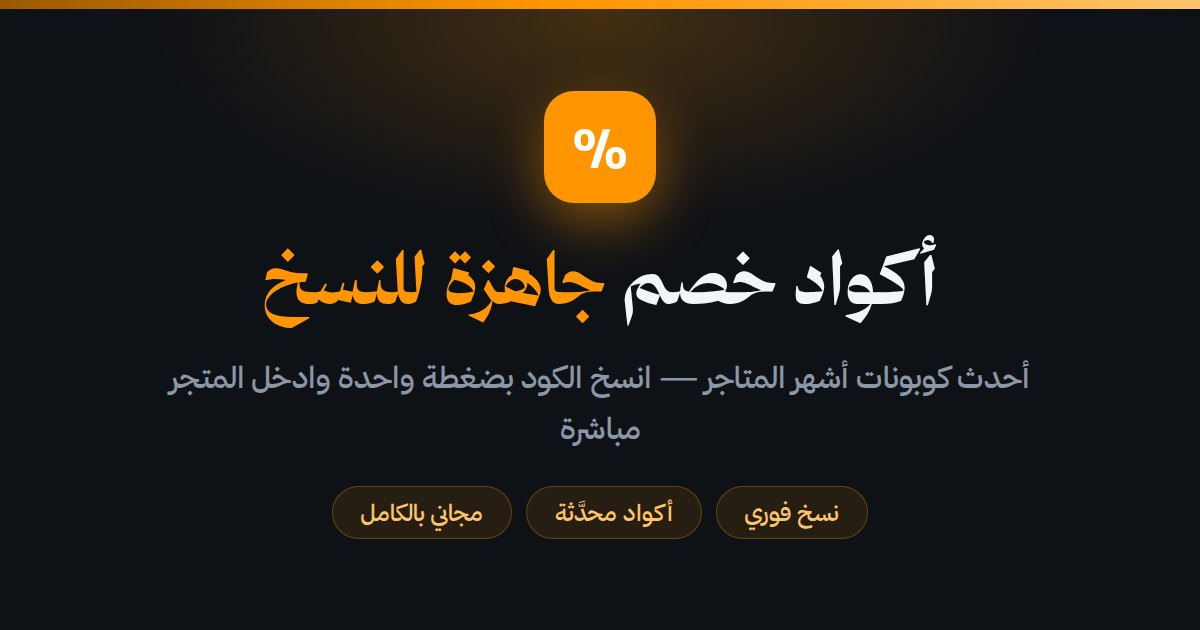
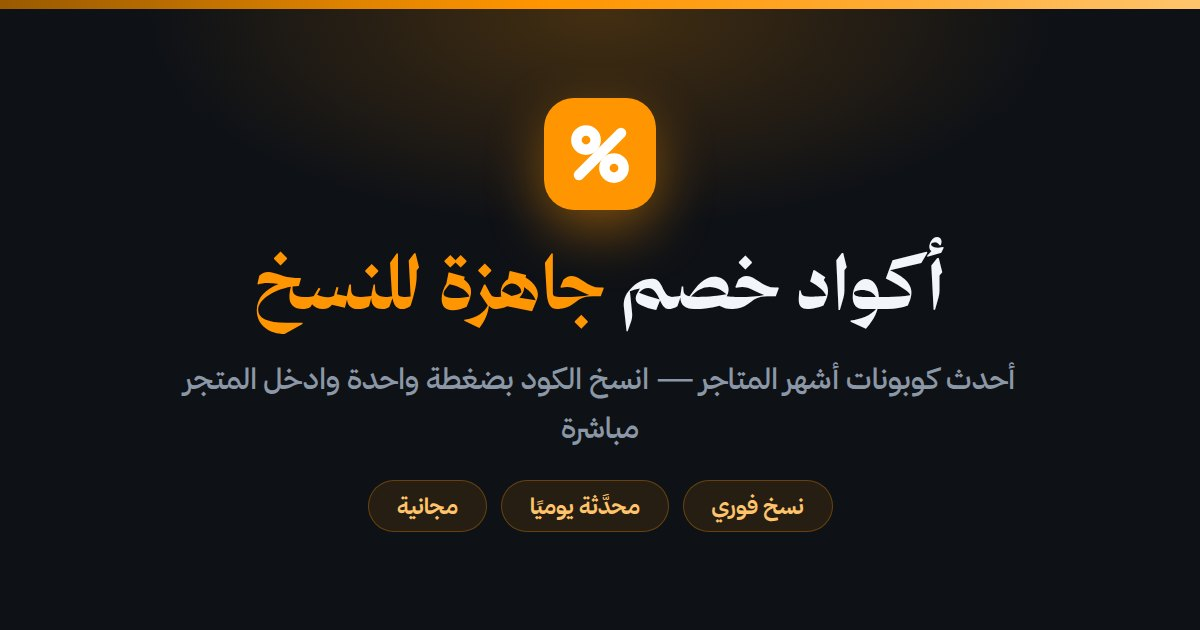
Name the site "أكواد خصم" and draw a real mark
The name and icon were placeholders I had defaulted to. The owner chose a
descriptive, exact-match name — it is what people type into Google, which
fits the site's whole strategy.

Name
- site.json carries "أكواد خصم" as name, short name and app name
- A descriptive name breaks the usual "<page> | <site>" title pattern: the
  suffix repeats words the title already opens with, and Google truncates
  the result. pageTitle() now appends the site name only when the title
  does not already contain it, so store and category pages read
  "أكواد خصم نمشي 2026 — خصم 20%" instead of repeating themselves
- The home title no longer concatenates name and tagline into a stutter

Mark
- The icon was the "%" character set in Arial — it depended on a font and
  read as a text glyph, not a mark. It is now drawn as geometry: two rings
  and a stroke, so it renders identically everywhere and stays legible at
  favicon size
- Regenerated favicon.svg, all four PNG sizes, the header brand mark and
  the social image from that one shape
- The header mark takes its colour from currentColor, so it follows the
  theme rather than carrying a hardcoded fill

Claude-Session: https://claude.ai/code/session_014VH8EyXa7tsFpA8vgQpevA

diff --git a/coupons/build.js b/coupons/build.js
@@ -257,6 +257,14 @@ const FONT_LINKS = [
   `<noscript>${FONT_URLS.map((h) => `<link rel="stylesheet" href="${h}">`).join('')}</noscript>`,
 ].join('\n');
 
+/**
+ * اسم الموقع وصفيٌّ («أكواد خصم»)، فإلحاقه بعنوانٍ يبدأ به يُنتج تكرارًا
+ * يقتطعه قوقل ويُضعف العنوان. نُلحقه فقط حين لا يكون مذكورًا.
+ */
+function pageTitle(t) {
+  return t.includes(site.name) ? t : `${t} | ${site.name}`;
+}
+
 /* ======================= مكوّنات ======================= */
 
 /**
@@ -540,7 +548,12 @@ ${schema.map((o) => `<script type="application/ld+json">${JSON.stringify(o).repl
 <header class="appbar">
   <div class="appbar__inner">
     <a class="brand" href="/">
-      <span class="brand__mark" aria-hidden="true">%</span>
+      <svg class="brand__mark" viewBox="0 0 64 64" width="36" height="36" aria-hidden="true">
+        <rect width="64" height="64" rx="15" fill="currentColor"/>
+        <g fill="none" stroke="#fff" stroke-width="6" stroke-linecap="round">
+          <path d="M44 20 20 44"/><circle cx="24" cy="24" r="5.5"/><circle cx="40" cy="40" r="5.5"/>
+        </g>
+      </svg>
       <span class="brand__name">${esc(site.name)}</span>
     </a>
     <nav class="appbar__nav" aria-label="التنقل الرئيسي">
@@ -728,7 +741,7 @@ ${posts.slice(0, 3).map((x) => postCard(x, { compact: true })).join('\n')}
 ${faqHtml}`;
 
   return layout({
-    title: `${site.name} — ${site.tagline} ${YEAR}`,
+    title: `${site.name} ${YEAR} — كوبونات فعّالة لأشهر المتاجر`,
     description: site.description,
     canonical: abs('/'),
     path: '/',
@@ -778,7 +791,7 @@ ${cat.stores.map((s) => storeCard(s)).join('\n')}
   .join('\n')}`;
 
   return layout({
-    title: `كل المتاجر — ${esc(storesLabel(stores.length))} بأكواد خصم فعّالة | ${site.name}`,
+    title: pageTitle(`كل المتاجر — ${storesLabel(stores.length)} بأكواد خصم فعّالة`),
     description: `تصفّح ${storesLabel(stores.length)} لديها ${codesLabel(TOTAL_CODES)} — أزياء وإلكترونيات وتسوق عام وسفر. كود جاهز للنسخ مع رابط المتجر مباشرة.`,
     canonical: abs('/stores/'),
     path: '/stores/',
@@ -867,7 +880,7 @@ ${others.map((x) => storeCard(x)).join('\n')}
   </section>
 </div>`;
 
-  const title = `أكواد خصم ${s.name} ${YEAR}${best && best.discount ? ` — خصم ${best.discount}` : ''} | ${site.shortName || site.name}`;
+  const title = pageTitle(`أكواد خصم ${s.name} ${YEAR}${best && best.discount ? ` — خصم ${best.discount}` : ''}`);
   const description = `${codesLabel(s.codes.length)} لمتجر ${s.name}${best && best.discount ? ` تصل إلى ${best.discount}` : ''}. انسخ الكود بضغطة وادخل المتجر. محدَّث ${fmtDate(BUILT_AT)}.`;
 
   return {
@@ -953,7 +966,7 @@ ${catPosts.map((x) => postCard(x, { compact: true })).join('\n')}
   return {
     url,
     html: layout({
-      title: `أكواد خصم ${cat.name} ${YEAR} — ${codes.length} كوبون فعّال | ${site.name}`,
+      title: pageTitle(`أكواد خصم ${cat.name} ${YEAR} — ${codes.length} كوبون فعّال`),
       description: `${codesLabel(codes.length)} في قسم ${cat.name} من ${storesLabel(cat.stores.length)}. انسخ الكود بضغطة وادخل المتجر. محدَّث ${fmtDate(BUILT_AT)}.`,
       canonical: abs(url),
       path: url,
@@ -1002,7 +1015,7 @@ ${rest.map((x) => postCard(x)).join('\n')}
 </div>`;
 
   return layout({
-    title: `المدونة — أدلّة التوفير والتسوق الإلكتروني | ${site.name}`,
+    title: pageTitle('المدونة — أدلّة التوفير والتسوق الإلكتروني'),
     description: 'أدلّة عملية في أكواد الخصم ومواسم التخفيضات والتسوق الإلكتروني، مربوطة بالأكواد الفعّالة في الموقع.',
     canonical: abs('/blog/'),
     path: '/blog/',
@@ -1097,7 +1110,7 @@ ${related.map((x) => postCard(x, { compact: true })).join('\n')}
   return {
     url: post.url,
     html: layout({
-      title: `${post.title} | ${site.name}`,
+      title: pageTitle(post.title),
       description: post.excerpt || postPlainText(post).slice(0, 180),
       canonical: abs(post.url),
       path: post.url,
@@ -1207,7 +1220,7 @@ function pageAdvertise() {
 </div>`;
 
   return layout({
-    title: `أعلن معنا — مساحات إعلانية | ${site.name}`,
+    title: pageTitle('أعلن معنا — مساحات إعلانية'),
     description: 'مساحات إعلانية داخل قوائم أكواد الخصم وصفحات المتاجر والمدونة. استهداف بالتصنيف، ووسم إعلاني واضح، وتقرير نقرات في نهاية كل حملة.',
     canonical: abs('/advertise/'),
     path: '/advertise/',
@@ -1234,7 +1247,7 @@ function pageSearch() {
 </div>`;
 
   return layout({
-    title: `بحث في الأكواد | ${site.name}`,
+    title: pageTitle('بحث في الأكواد'),
     description: 'ابحث في أكواد الخصم حسب اسم المتجر أو التصنيف أو الكود نفسه.',
     canonical: abs('/search/'),
     path: '/search/',
@@ -1256,7 +1269,7 @@ function pageFavorites() {
 </div>`;
 
   return layout({
-    title: `المفضلة | ${site.name}`,
+    title: pageTitle('المفضلة'),
     description: 'الأكواد التي حفظتها.',
     canonical: abs('/favorites/'),
     path: '/favorites/',
@@ -1267,7 +1280,7 @@ function pageFavorites() {
 
 function pageOffline() {
   return layout({
-    title: `لا يوجد اتصال | ${site.name}`,
+    title: pageTitle('لا يوجد اتصال'),
     description: 'لا يوجد اتصال بالإنترنت.',
     path: '/offline/',
     noindex: true,
@@ -1283,7 +1296,7 @@ function pageOffline() {
 
 function page404() {
   return layout({
-    title: `الصفحة غير موجودة | ${site.name}`,
+    title: pageTitle('الصفحة غير موجودة'),
     description: 'الصفحة غير موجودة.',
     path: '/404',
     noindex: true,
@@ -1417,9 +1430,14 @@ self.addEventListener('fetch', (e) => {
 });
 `;
 
-const faviconSvg = () => `<svg xmlns="http://www.w3.org/2000/svg" viewBox="0 0 64 64">
+/* الأيقونة المتجهة — تُرسم بمسارٍ لا بخط، فلا تعتمد على خطٍّ مثبَّت على جهاز الزائر. */
+const faviconSvg = () => `<svg xmlns="http://www.w3.org/2000/svg" viewBox="0 0 64 64" role="img" aria-label="أكواد خصم">
   <rect width="64" height="64" rx="15" fill="#FF9500"/>
-  <text x="32" y="45" text-anchor="middle" font-family="Arial, Helvetica, sans-serif" font-size="38" font-weight="bold" fill="#fff">%</text>
+  <g fill="none" stroke="#fff" stroke-width="6" stroke-linecap="round">
+    <path d="M44 20 20 44"/>
+    <circle cx="24" cy="24" r="5.5"/>
+    <circle cx="40" cy="40" r="5.5"/>
+  </g>
 </svg>
 `;
 

diff --git a/coupons/public/admin/index.html b/coupons/public/admin/index.html
@@ -14,7 +14,7 @@
 
 <header class="appbar">
   <div class="appbar__inner">
-    <a class="brand" href="/"><span class="brand__mark" aria-hidden="true">%</span><span class="brand__name">لوحة الإدارة</span></a>
+    <a class="brand" href="/"><svg class="brand__mark" viewBox="0 0 64 64" width="36" height="36" aria-hidden="true"><rect width="64" height="64" rx="15" fill="currentColor"/><g fill="none" stroke="#fff" stroke-width="6" stroke-linecap="round"><path d="M44 20 20 44"/><circle cx="24" cy="24" r="5.5"/><circle cx="40" cy="40" r="5.5"/></g></svg><span class="brand__name">لوحة الإدارة</span></a>
     <div class="admin__actions">
       <button type="button" class="btn btn-ghost" id="import-btn">استيراد</button>
       <input type="file" id="import-file" accept="application/json,.json" hidden>

diff --git a/coupons/public/styles.css b/coupons/public/styles.css
@@ -122,9 +122,9 @@ button { font-family: inherit; }
 .brand { display: flex; align-items: center; gap: 10px; }
 .brand:hover { color: inherit; }
 .brand__mark {
-  width: 36px; height: 36px; border-radius: 11px;
-  background: var(--brand); color: #fff;
-  display: grid; place-items: center; font-size: 18px; font-weight: 700;
+  width: 36px; height: 36px; flex: 0 0 36px;
+  color: var(--brand);
+  border-radius: 11px;
   box-shadow: var(--shadow-brand);
 }
 .brand__name { font-family: var(--font-display); font-size: 20px; font-weight: 700; color: var(--heading); }
